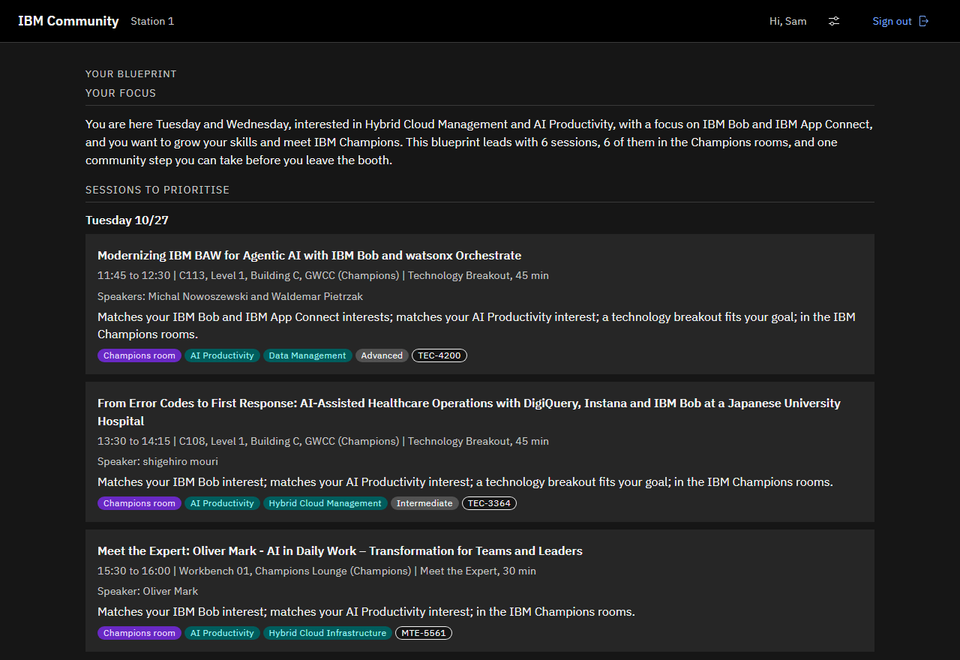
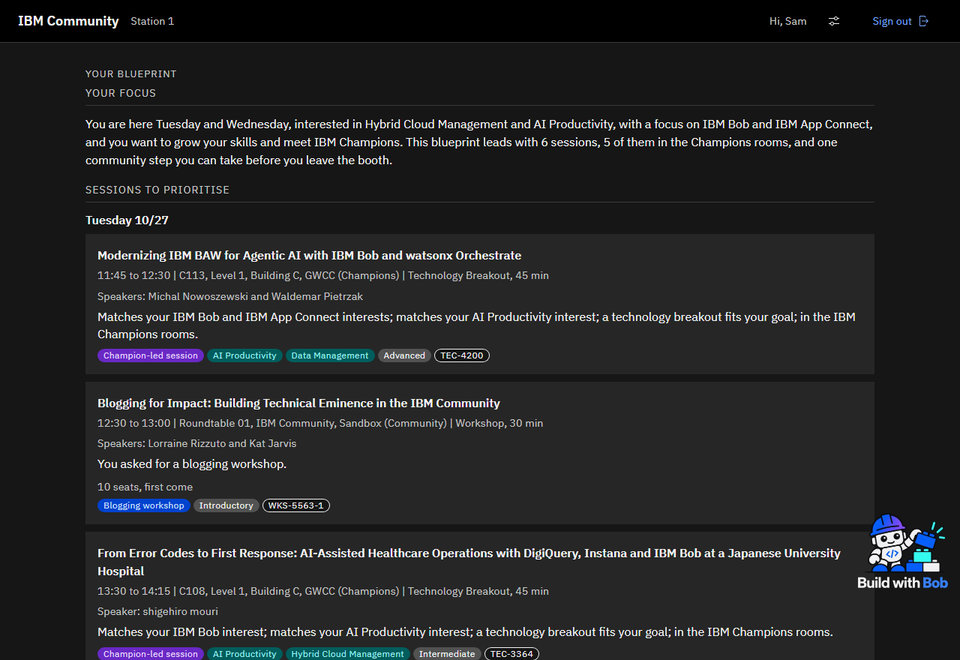
Refresh the TechXchange teaser blueprint screenshot and intro wording
New blueprint shot from the current app build (Bob logo, blogging
workshop question), "a couple of questions" instead of four, and a
plainer second sentence in the intro.

diff --git a/misc/techxchange-blueprint/techxchange-blueprint.md b/misc/techxchange-blueprint/techxchange-blueprint.md
@@ -3,7 +3,7 @@ title: 'Too many sessions? The IBM Champions built you a planner'
 date: 2026-09-28
 author: Matthias Blomme
 description: The IBM Champions built a Growth Blueprint kiosk for the IBM Community
-  booth at TechXchange 2026. Four questions, three minutes, and you walk away with
+  booth at TechXchange 2026. A couple of questions, three minutes, and you walk away with
   sessions, Champions to meet and groups to join. Plus a stripped-down version you
   can run now if you can't wait.
 tags:
@@ -20,9 +20,9 @@ reading_time: 5 min
 
 For everybody going to TechXchange: congratulations. For those of you who aren't going: well, you're missing out. (To paraphrase Samson, an old Flemish children's TV show. Google it.)
 
-There's so much happening at the event that it's hard to build a proper agenda around what you like, what you want to see, and how much time you have at the venue. So you don't spend your first morning scrolling through 1137 sessions, the IBM Champions community built a blueprint helper just for you. You'll find it at the IBM Community booth.
+There's so much happening at the event that it's hard to build a proper agenda around what you like, what you want to see, and how much time you have at the venue. And nobody wants to spend their first morning scrolling through 1137 sessions. So the IBM Champions community built a blueprint helper, just for you. You'll find it at the IBM Community booth.
 
-Tell it what you're interested in, when you're there and what you want to get out of the week, and it builds your own TechXchange blueprint. Four questions, three minutes, done. Your name goes up on the wall, and if you do the rest of the booth journey too, you might just walk away with a professional headshot. And who knows, maybe there's even a giveaway.
+Tell it what you're interested in, when you're there and what you want to get out of the week, and it builds your own TechXchange blueprint. A couple of questions, three minutes, done. Your name goes up on the wall, and if you do the rest of the booth journey too, you might just walk away with a professional headshot. And who knows, maybe there's even a giveaway.
 
 ## Where to find it
 
